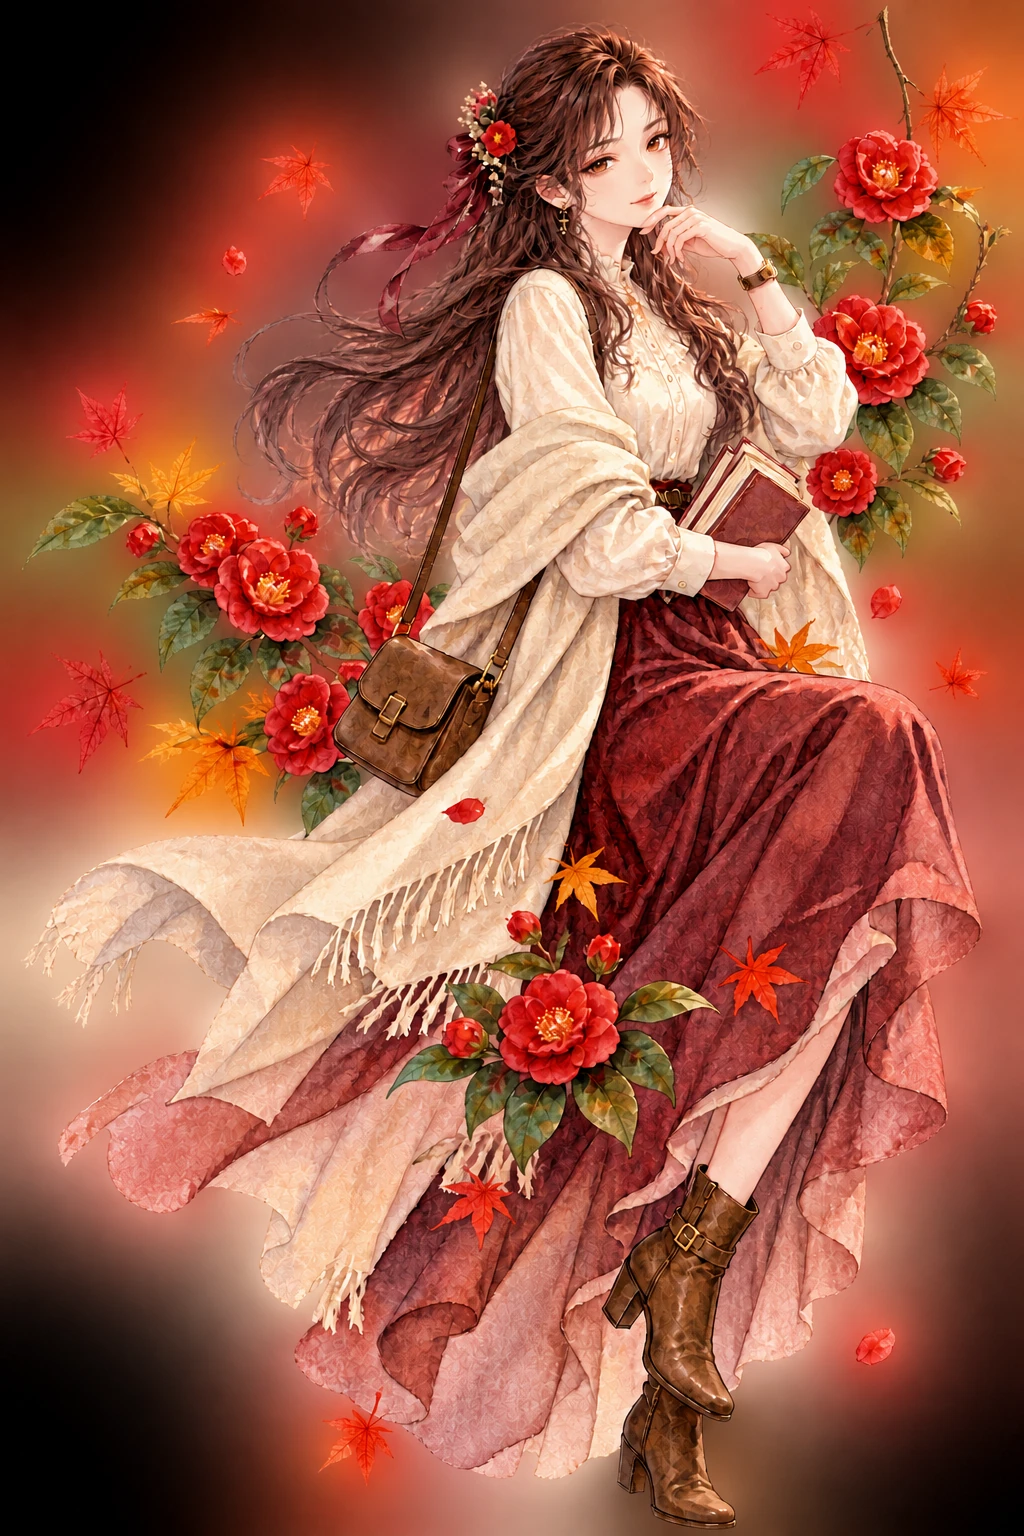
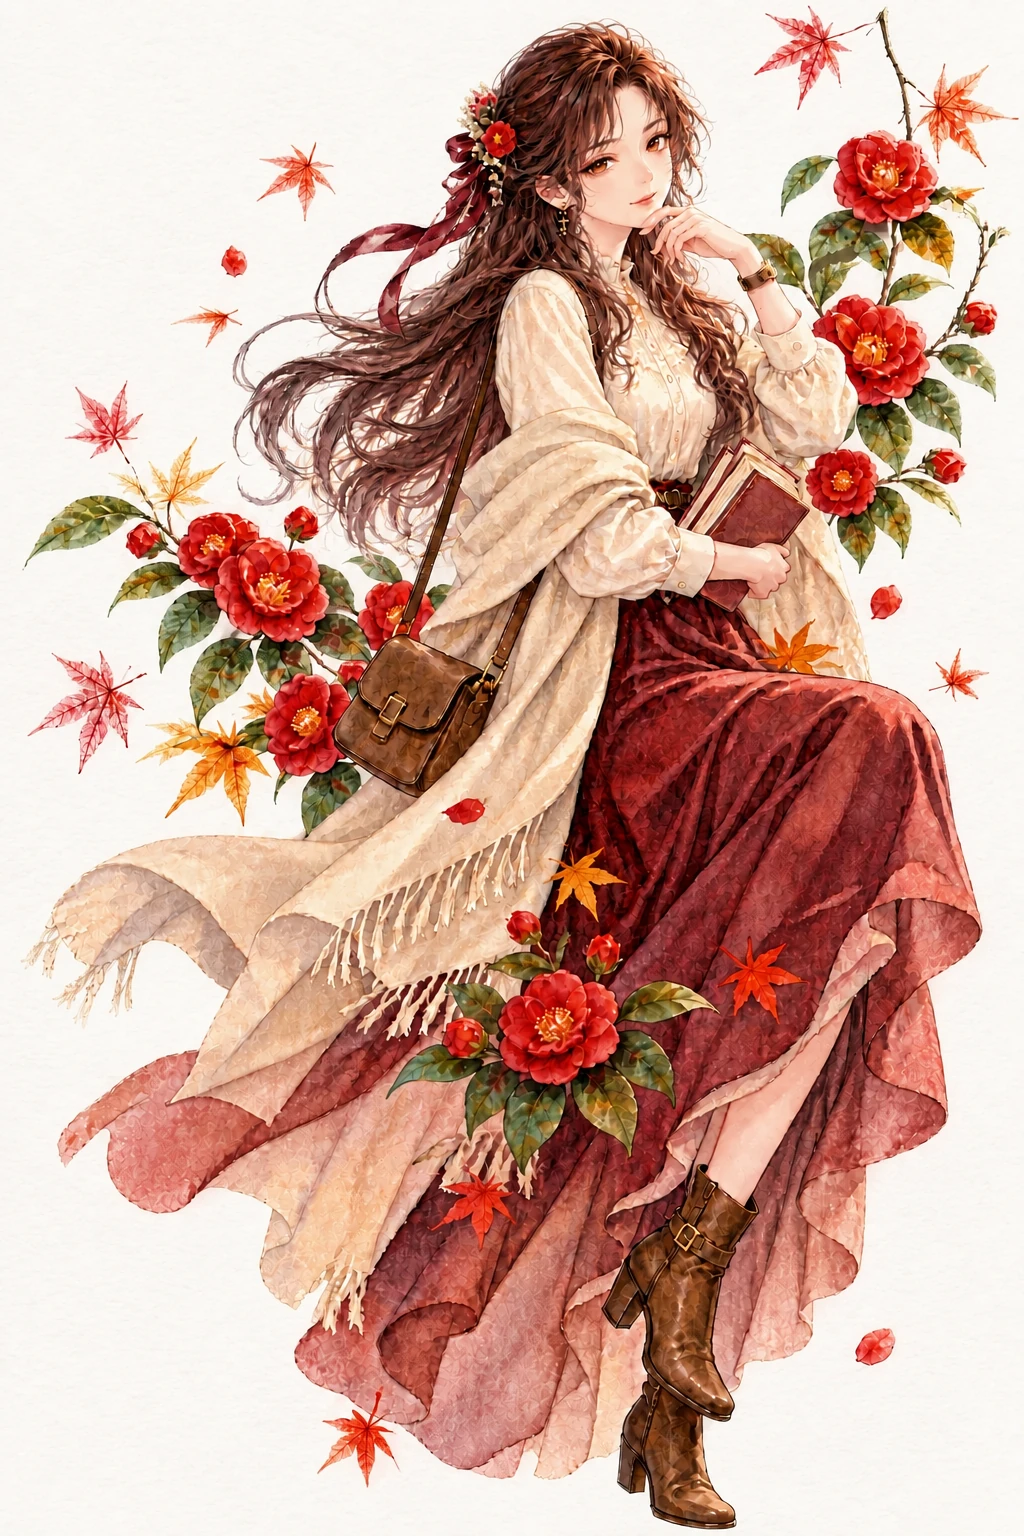
Frame autumn and winter watercolor portraits

diff --git a/assets/css/main.css b/assets/css/main.css
@@ -521,8 +521,15 @@ html[data-theme="dark"] .hero-art img {
 .home-hero[data-season="winter"] .hero-art img {
   width: auto;
   max-height: 660px;
-  -webkit-mask-image: radial-gradient(ellipse 76% 82% at 50% 48%, #000 72%, transparent 100%);
-  mask-image: radial-gradient(ellipse 76% 82% at 50% 48%, #000 72%, transparent 100%);
+  padding: 9px;
+  background: #fbfaf7;
+  border: 1px solid color-mix(in srgb, var(--season-deep) 48%, #8a7862);
+  border-radius: 2px;
+  box-shadow:
+    0 0 0 4px color-mix(in srgb, var(--season-deep) 26%, #d8cbb8),
+    0 0 0 5px color-mix(in srgb, var(--season-deep) 52%, #8a7862),
+    0 28px 56px rgba(38, 32, 25, 0.16);
+  filter: none;
 }
 
 .writing-section {
